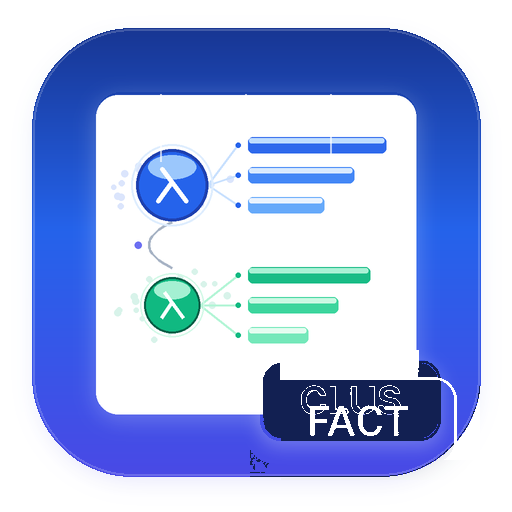
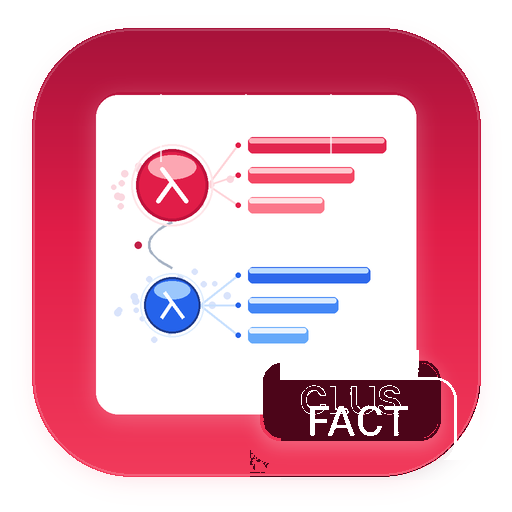
design: survey-focus-explorerとの差別化のためアイコンを鮮烈なローズクリムゾンに刷新 (FACT)

diff --git a/index.html b/index.html
@@ -4,8 +4,8 @@
     <meta charset="UTF-8">
     <meta name="viewport" content="width=device-width, initial-scale=1.0">
     <title>テキスト・自由記述 潜在トピック探索ツール</title>
-    <link rel="icon" type="image/png" href="icon.png?v=20261028_2005">
-    <link rel="apple-touch-icon" href="icon.png?v=20261028_2005">
+    <link rel="icon" type="image/png" href="icon.png?v=20261028_2015">
+    <link rel="apple-touch-icon" href="icon.png?v=20261028_2015">
     <link rel="stylesheet" href="css/style.css?v=20261028_1700">
     <!-- 外部・自前ライブラリ群 -->
     <script src="lib/xlsx.full.min.js"></script>
@@ -19,7 +19,7 @@
     <header class="header">
         <div class="container header-content">
             <div class="logo-area">
-                <img src="icon.png?v=20261028_2005" alt="FACT" style="width: 36px; height: 36px; flex-shrink: 0;">
+                <img src="icon.png?v=20261028_2015" alt="FACT" style="width: 36px; height: 36px; flex-shrink: 0;">
                 <div>
                     <h1 class="logo-title">テキスト・自由記述 潜在トピック探索ツール</h1>
                 </div>
